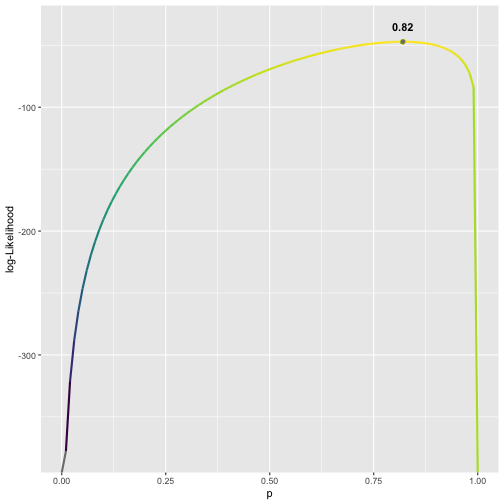
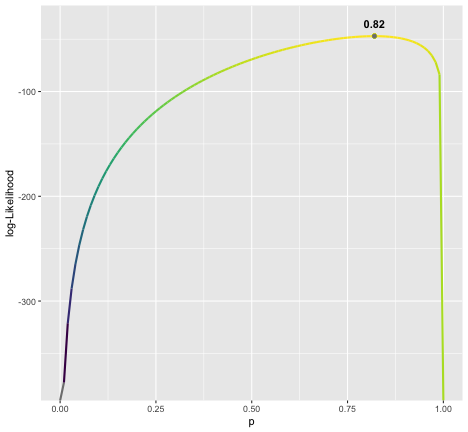
Sync

diff --git a/slides/class_4/class_4.html b/slides/class_4/class_4.html
@@ -62,29 +62,29 @@ Por ejemplo, supongamos que `\(Y\)` es una variable que resulta de tirar un dado
 
 1) El valor esperado de una constante es una constante.
 
-`$$E(c)=c$$`
+`$$\mathbb{E}(c)=c$$`
 
 --
 
 2) Si `\(X\)` es una variable aleatoria y `\(c\)` una constante, entonces 
 
-`$$E(c X)= c E(X)$$`
+`$$\mathbb{E}(c X)= c \mathbb{E}(X)$$`
 --
 
 3) Si `\(X\)` e `\(Y\)` son variables aleatorias (sin importar si `\(X \bot Y\)` o no), entonces
 
-`$$E(X + Y)=  E(X) + E(Y)$$`
+`$$\mathbb{E}(X + Y)=  \mathbb{E}(X) + \mathbb{E}(Y)$$`
 --
 
 4) Si `\(X\)` es una variable aleatoria y `\(g(.)\)` es una función, entonces
 
-`$$E(g(X))=  g(E(X))$$`
+`$$\mathbb{E}(g(X))=  g(\mathbb{E}(X))$$`
 
 --
 
 5. Si `\(X\)` e `\(Y\)` son variables aleatorias independientes, entonces
 
-`$$E(XY) = E(X)E(Y)$$`
+`$$\mathbb{E}(XY) = \mathbb{E}(X)\mathbb{E}(Y)$$`
 ---
 
 ## Valor Esperado, algunas propiedades útiles  
@@ -96,20 +96,18 @@ Por ejemplo, supongamos que `\(X_{i}\)` es la variable que resulta de tirar un d
 
 --
 
-`$$P = 1000 + \sum^{n=100}_{i=1} X_{i} \times 10$$`
-
-Por tanto,
+`$$P = 1000 + \sum^{n=100}_{i=1} X_{i} \times 10 \quad \text{ por tanto,}$$`
 --
 
-`$$E(P) = E(1000 + \sum^{n=100}_{i=1} X_{i} \times 10)$$`
-
---
-
-`$$E(P) = 1000 + 10 \times \sum^{n=100}_{i=1}E(X_{i})$$`
+`$$\mathbb{E}(P) = \mathbb{E}(1000 + \sum^{n=100}_{i=1} X_{i} \times 10)$$`
 
 --
 
-$$E(P) = 1000 + 10 (3.5 + 3.5 + \dots + 3.5)) = 1000 + 10 \times 100 \times 3.5 = \$4500$$ 
+`$$\mathbb{E}(P) = 1000 + 10 \times \sum^{n=100}_{i=1}\mathbb{E}(X_{i})$$`
+
+--
+
+$$\mathbb{E}(P) = 1000 + 10 (3.5 + 3.5 + \dots + 3.5)) = 1000 + 10 \times 100 \times 3.5 = \$4500$$ 
 
 ---
 
@@ -164,21 +162,72 @@ Por ejemplo, supongamos que `\(Y\)` es una variable que resulta de tirar un dado
      &amp;= 2.91
 \end{align}`
 
----
 
-### Varianza de una variable Bernoulli
+---
+## Varianza, algunas propiedades útiles  
+
+1) La varianzade una constante es cero.
+
+`$$\mathbb{Var}(c)=0$$`
+&lt;br&gt;
+--
+
+2) Si `\(X\)` es una variable aleatoria y `\(c\)` una constante, entonces 
+
+`$$\mathbb{Var}(c X)= c^{2} \mathbb{Var}(X)$$`
+&lt;br&gt;
+--
+
+3) Si `\(X\)` e `\(Y\)` son dos variables aleatorias independientes, entonces
+
+`$$\mathbb{Var}(X + Y) =  \mathbb{Var}(X) + \mathbb{Var}(Y)$$`
+---
+## Varianza, algunas propiedades útiles  
+
+Por ejemplo, supongamos que `\(X_{i}\)` es la variable que resulta de tirar un dado "justo". Participamos de un concurso que consiste en tirar el mismo dado 100 veces. Es premio es $ `\(1000\)` de base, más el resultado de cada dado `\(i\)` multiplicado por 10.
+--
+ ¿Cuánto es la desviación estándar del premio?
+
+--
+
+`$$P = 1000 + \sum^{n=100}_{i=1} X_{i} \times 10 \quad \text{ por tanto,}$$`
+
+--
+
+`$$\mathbb{Var}(P) = \mathbb{Var}(1000 + \sum^{n=100}_{i=1} X_{i} \times 10)$$`
+
+--
+
+`$$\mathbb{Var}(P) = \mathbb{Var}(1000) + 10^{2} \times \sum^{n=100}_{i=1}\mathbb{Var}(X_{i})$$`
+
+--
+
+$$\mathbb{Var}(P) =  0 +  10^{2} \times 100 \times 2.91 = \$29100$$ 
+
+--
+
+$$\sigma_{P} = \sqrt{0 + 100 \times 100 \times 2.91} = \$ 170.6$$
+---
+## Varianza de variables discretas
+
+### Bernoulli
 
 Si X es una variable Bernoulli, su varianza viene dada por:
 
 `\begin{align}
-\mathbb{Var} = \sum_{i} \bigg( x_{i} - E(X) \bigg)^{2} \times f_{X}(x_{i}) &amp;= (1 - p)^{2} \times p +  (0 - p)^{2} \times (1-p) \\ 
+\mathbb{Var}(X) &amp;= \sum_{i} \bigg( x_{i} - \mathbb{E}(X) \bigg)^{2} \times f_{X}(x_{i})  \\ \\
+ &amp;= (1 - \mathbb{E}(X))^{2} \times \mathbb{P}(X=1) + (0 - \mathbb{E}(X))^{2} \times \mathbb{P}(X=0) \\ \\
+ &amp;= (1 - p)^{2} \times p +  (0 - p)^{2} \times (1-p) \\ \\
  &amp;=p^{2} − p^{3} + p − 2p^{2} + p^{3} \\ \\
  &amp;=p(1-p)
 \end{align}`
 
---
+---
+## Varianza de variables discretas
 
-### Varianza de una variable Binomial
+### Bernoulli
+
+### Binomial
 
 Si X es una variable Binomial, su varianza viene dada por:
 
@@ -338,7 +387,7 @@ Después de resolver por `\(p\)` obtenemos:
 
 ---
 
-.bold[Ejemplo via simulacioón en R]
+.bold[Ejemplo via simulación en R]
 
 
 ```r
@@ -378,16 +427,15 @@ m[which.max(m[,2]),]
 ##   0.82000 -47.13935
 ```
 
---
-
-Así se ve:
+---
+.bold[Ejemplo via simulación en R]
 
 
 ```r
-# Plot all LL values
-parameter_space %&gt;% as.data.frame() %&gt;% ggplot(aes(x=p, y=loglik, colour=loglik)) + geom_line(size=1) + geom_point(aes(x=m[which.max(m[,2]),1], m[which.max(m[,2]),2])) +
-scale_color_viridis() +
-guides(fill=FALSE, color=FALSE) + labs(x="p", y="log-Likelihood") +
+library("viridis")
+parameter_space %&gt;% as.data.frame() %&gt;% ggplot(aes(x=p, y=loglik, colour=loglik)) + 
+geom_line(size=1) + geom_point(aes(x=m[which.max(m[,2]),1], m[which.max(m[,2]),2])) +
+scale_color_viridis() + guides(fill=FALSE, color=FALSE) + labs(x="p", y="log-Likelihood") +
 annotate(geom="text", x=0.82, y=-35, label='bold("0.82")', color="black", parse=TRUE) 
 ```
 
